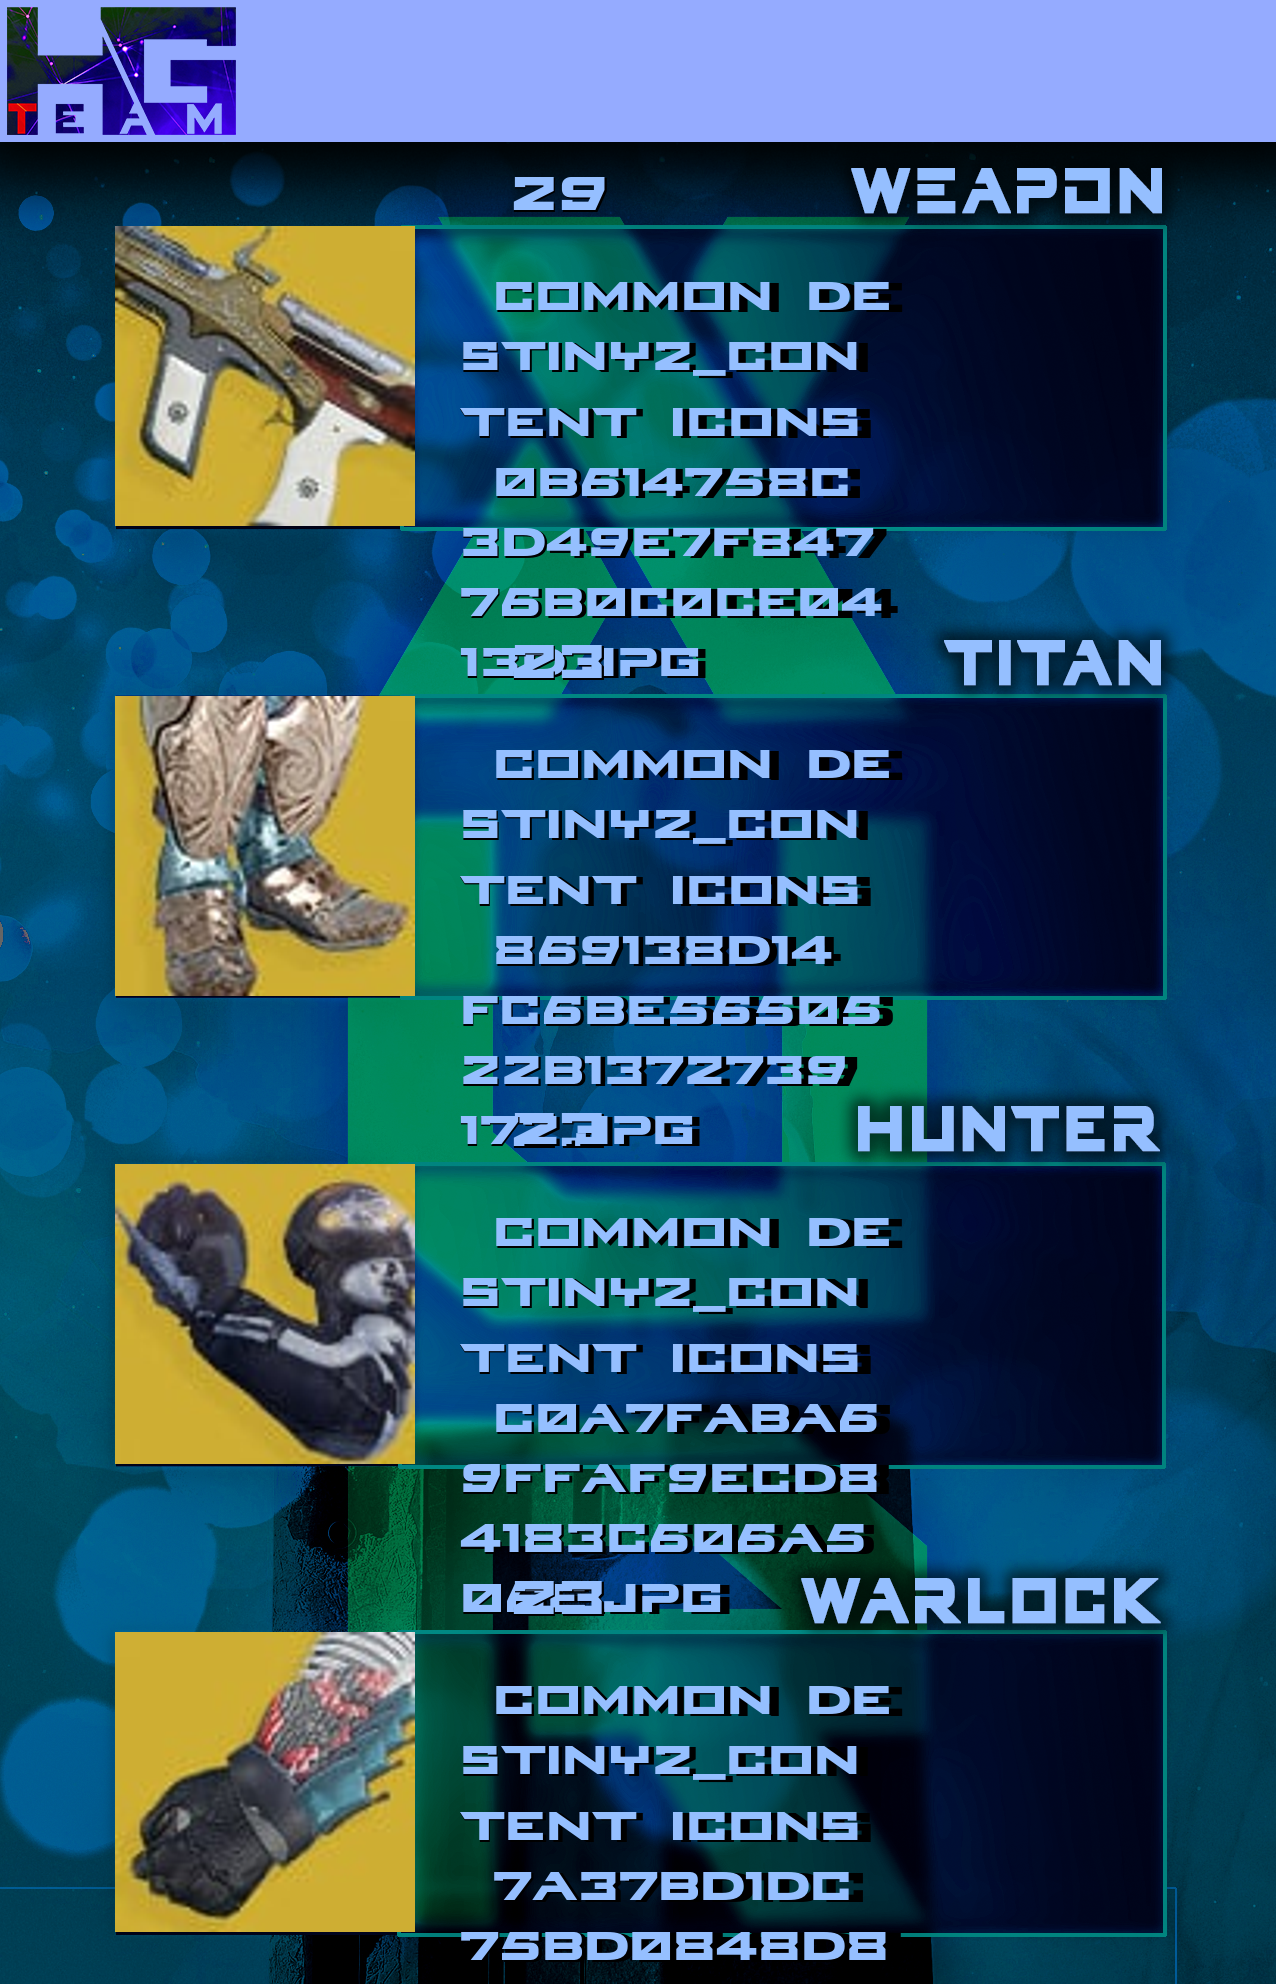
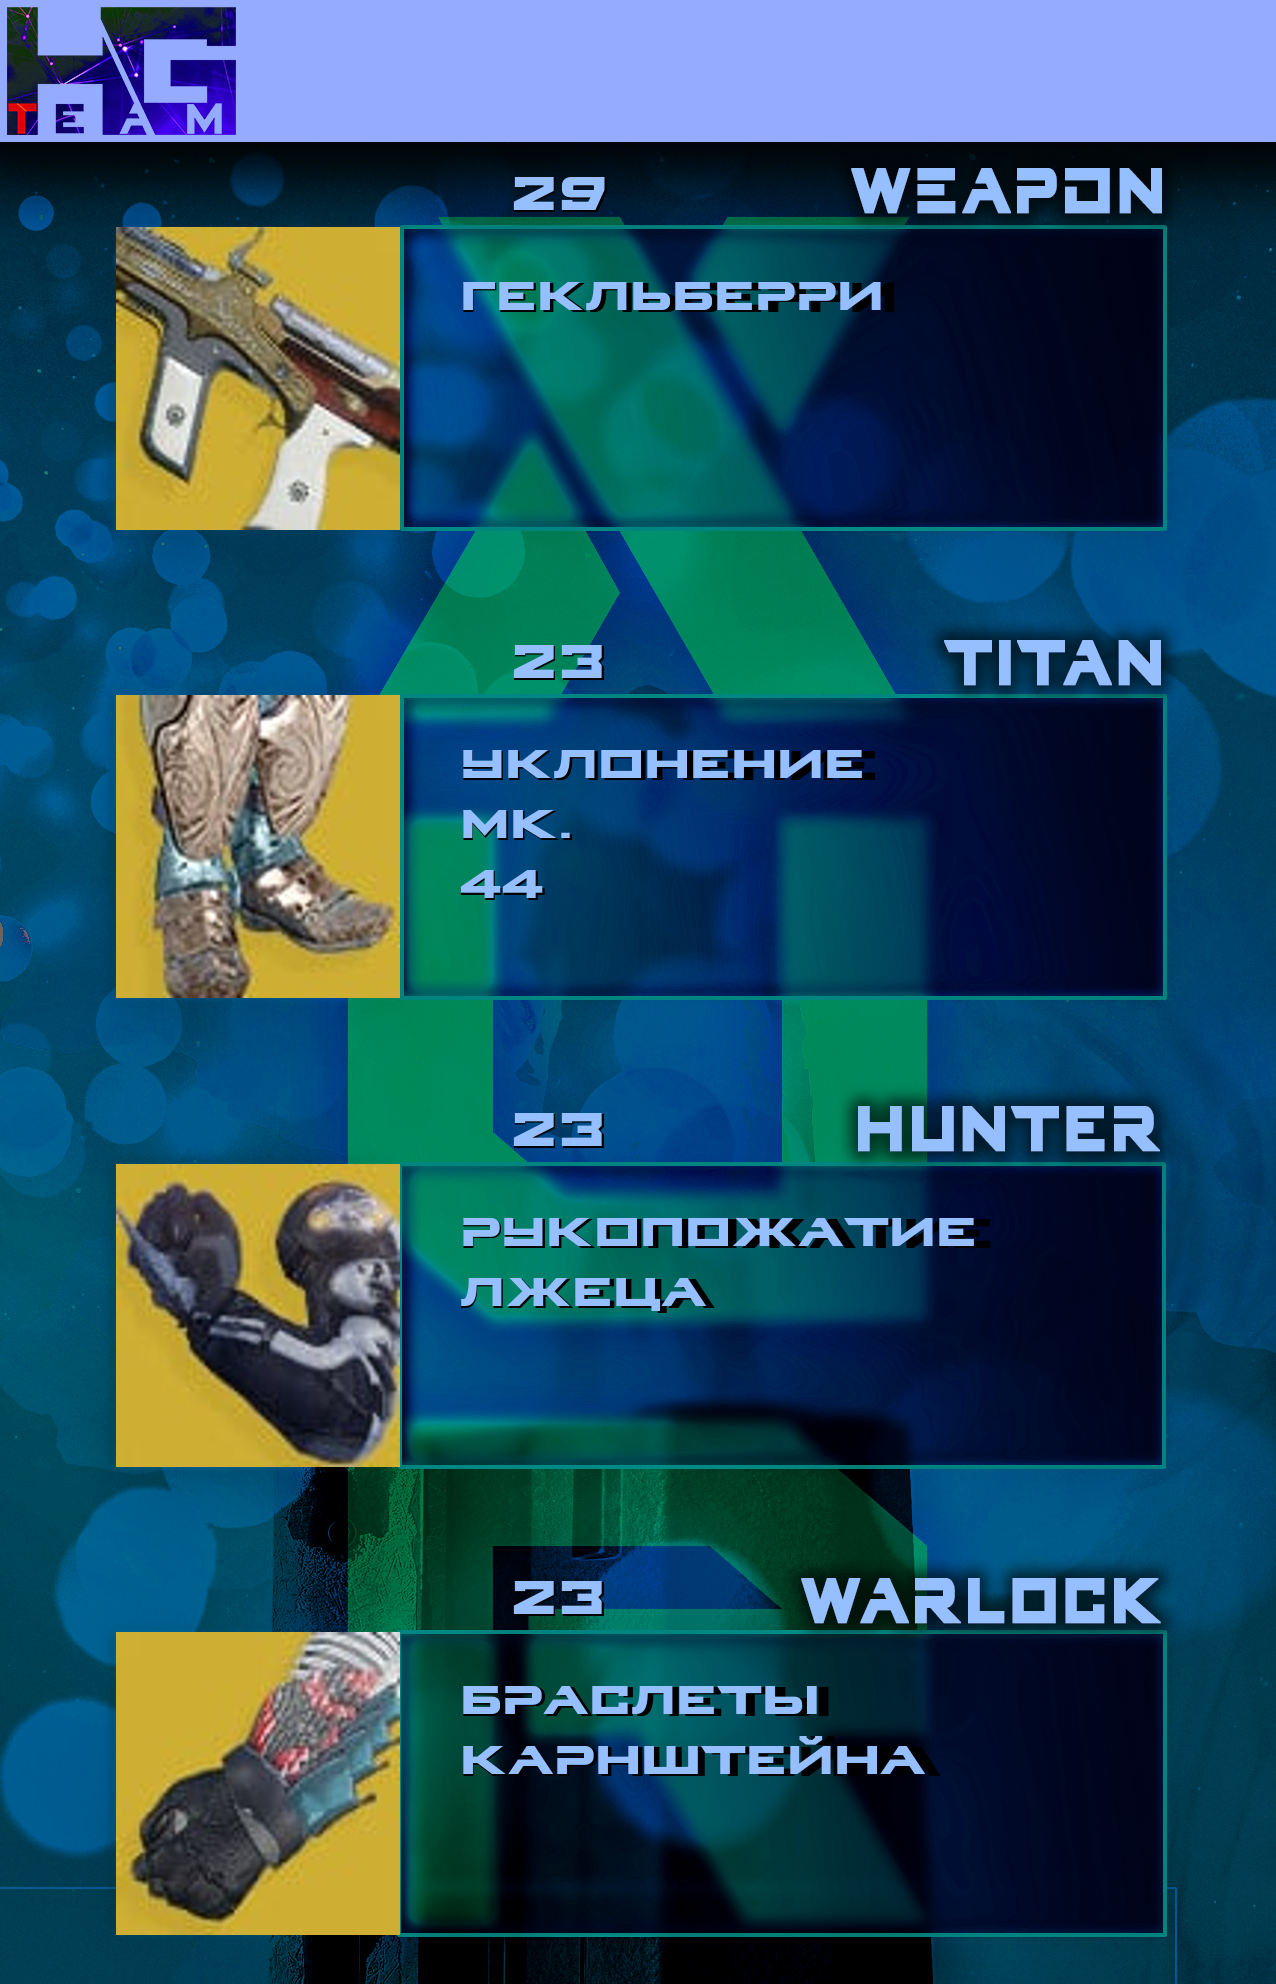
add auth and vendors spidi,clovis

diff --git a/DiscordBot.py b/DiscordBot.py
@@ -152,18 +152,19 @@ def magic_ball():
 def draw(item, cost, im1, yp, ys, yt):
     loadIcon = requests.get("https://www.bungie.net" + item[1])
     im2 = Image.open(BytesIO(loadIcon.content))
-    im1.paste(im2.resize((300, 300)), (115, yp))
+    im1.paste(im2.resize((284, 303)), (116, yp))
     draw = ImageDraw.Draw(im1)
-    for line in textwrap.wrap(str(item[1]), width=10):
+    text = item[0].split(' ')
+    for line in text:
         font = ImageFont.truetype("resources/18922.otf", 62)
         draw.text((460, yt), line, (0, 0, 0), font=font)
         font = ImageFont.truetype("resources/18922.otf", 60)
         draw.text((460, yt), line, (149, 191, 255), font=font)
         yt += font.getsize(line)[1]
     font = ImageFont.truetype("resources/18922.otf", 72)
-    draw.text((510, ys), str(cost), (0, 0, 0), font=font)
+    draw.text((510, ys), str(cost[1]), (0, 0, 0), font=font)
     font = ImageFont.truetype("resources/18922.otf", 70)
-    draw.text((510, ys), str(cost), (149, 191, 255), font=font)
+    draw.text((510, ys), str(cost[1]), (149, 191, 255), font=font)
 
 def items_filler():
     global list_h,list_w,list_t,list_w,list_prew
@@ -292,7 +293,7 @@ def xur_img(vendor_items):
                     yt = 250 + (468 * 2)
                     info.append(item[0])
                     info.append(item_list[1])
-                    draw(info, item[2][0][1], im1, yp, ys, yt)
+                    draw(info, item[2][0], im1, yp, ys, yt)
                     x=0
                     break
                 else:
@@ -305,7 +306,7 @@ def xur_img(vendor_items):
                     yt = 250 + (468 * 3)
                     info.append(item[0])
                     info.append(item_list[1])
-                    draw(info, item[2][0][1], im1, yp, ys, yt)
+                    draw(info, item[2][0], im1, yp, ys, yt)
                     x = 1
                     break
                 else:
@@ -313,12 +314,12 @@ def xur_img(vendor_items):
         if x == 2:
             for item_list in list_t:
                 if item[0] == item_list[0]:
-                    yp = 228 + 468
+                    yp = 227 + 468
                     ys = 140 + 468
                     yt = 250 + 468
                     info.append(item[0])
                     info.append(item_list[1])
-                    draw(info, item[2][0][1], im1, yp, ys, yt)
+                    draw(info, item[2][0], im1, yp, ys, yt)
                     x = 2
                     break
                 else:
@@ -326,12 +327,12 @@ def xur_img(vendor_items):
         if x == 3 and item[0] != 'Экзотическая энграмма':
             for item_list in list_we:
                 if item[0] == item_list[0]:
-                    yp = 226
+                    yp = 227
                     ys = 140
                     yt = 250
                     info.append(item[0])
                     info.append(item_list[1])
-                    draw(info, item[2][0][1], im1, yp, ys, yt)
+                    draw(info, item[2][0], im1, yp, ys, yt)
                     x=3
                     break
                 else:
@@ -339,6 +340,7 @@ def xur_img(vendor_items):
         if x == 4:
             print (item[0]+' не найдено')
     im1.save('resources/XUR_result.png')
+    print("Готово")
 
 def get_vender_info(vendor_id):
     global vendor_items
@@ -447,5 +449,5 @@ thread = threading.Thread(target=sch)
 thread.start()
 get_token(refresh_token,'refresh_token')
 download_config_song()
-get_vender_info('2190858386')
-#client.run(DISCORD_BOT_TOKEN)
+#get_vender_info('2190858386')
+client.run(DISCORD_BOT_TOKEN)
